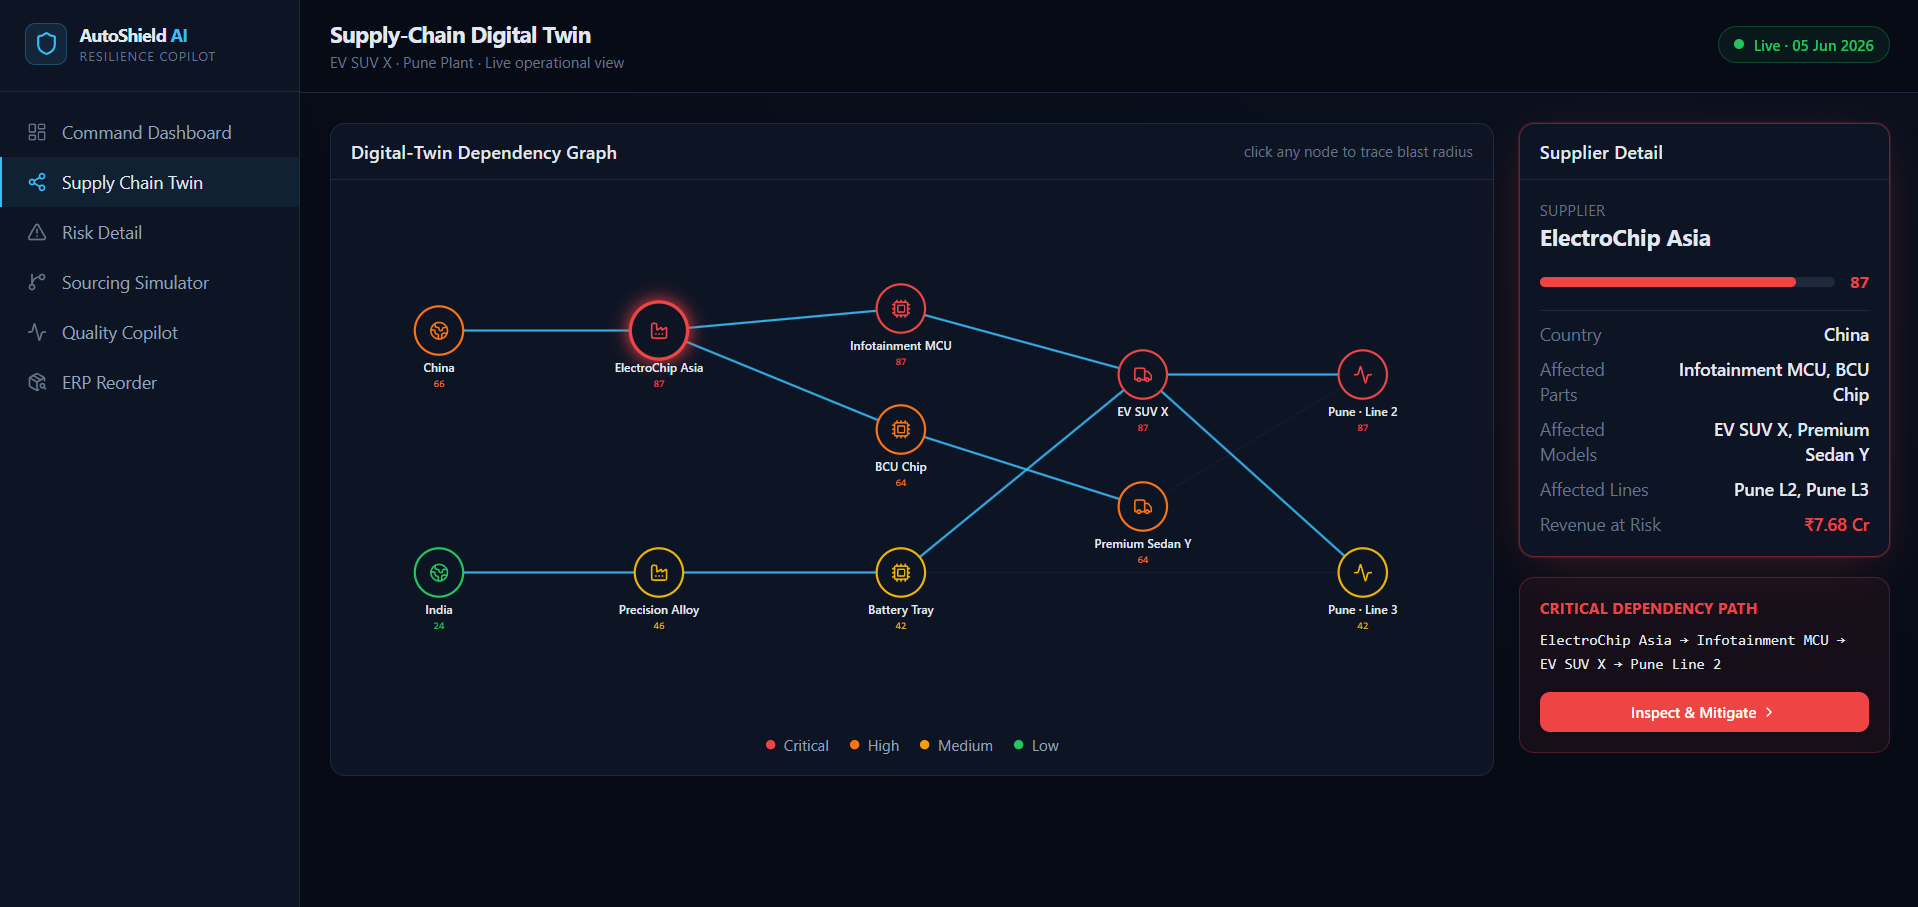
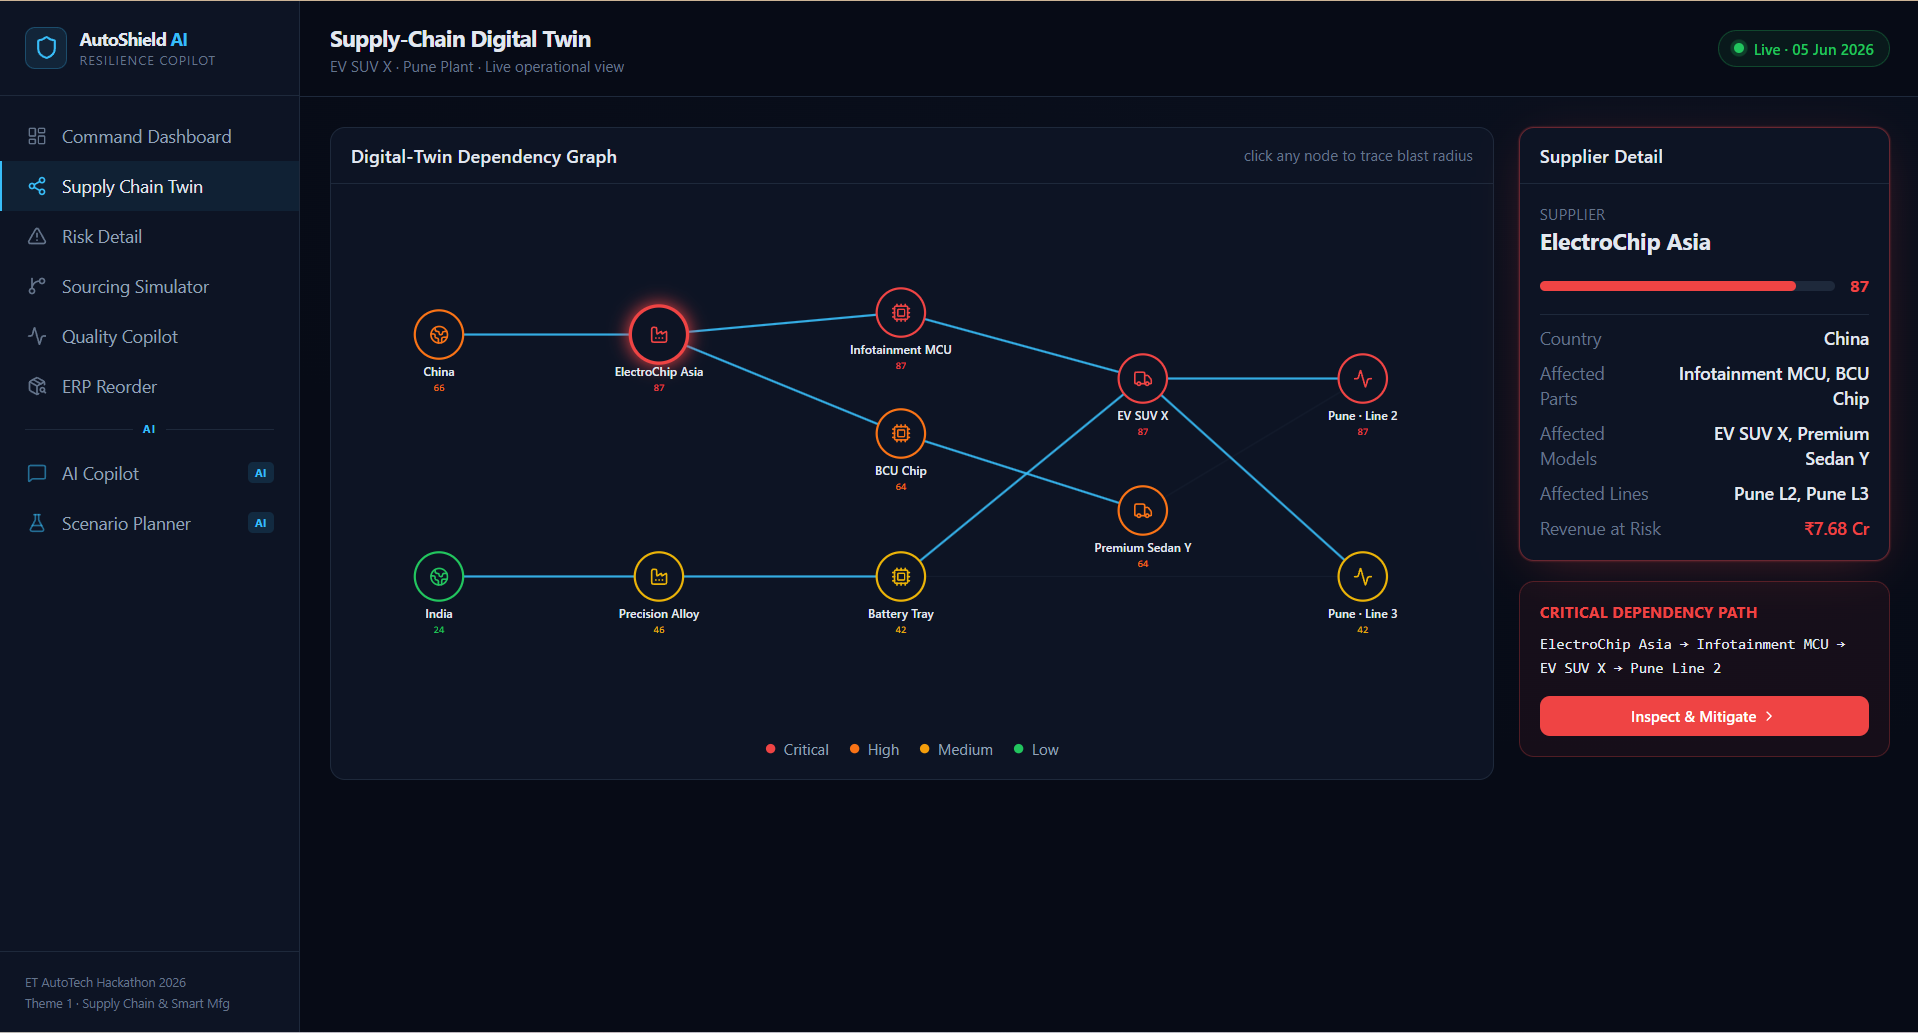
add all screenshots to README

diff --git a/README.md b/README.md
@@ -23,13 +23,22 @@ It combines a multi-factor risk scoring engine with GPT-4o intelligence to turn 
 ![Supply Chain Twin](screenshots/supply_chain_twin.png)
 
 ### Risk Detail
-![Risk Detail](screenshots/risk_detail.png)
+![Risk Detail](screenshots/rish_detail.png)
+
+### AI Copilot
+![AI Copilot](screenshots/AI_Copilot.png)
+
+### Scenario Planner
+![Scenario Planner](screenshots/scenario_planner.png)
+
+### Sourcing Simulator
+![Sourcing Simulator](screenshots/sourcing_simulator.png)
 
 ### Quality Copilot
 ![Quality Copilot](screenshots/quality_copilot.png)
 
 ### ERP Reorder Simulator
-![ERP Simulator](screenshots/erp_simulator.png)
+![ERP Reorder](screenshots/ERP_Reorder.png)
 
 ---
 